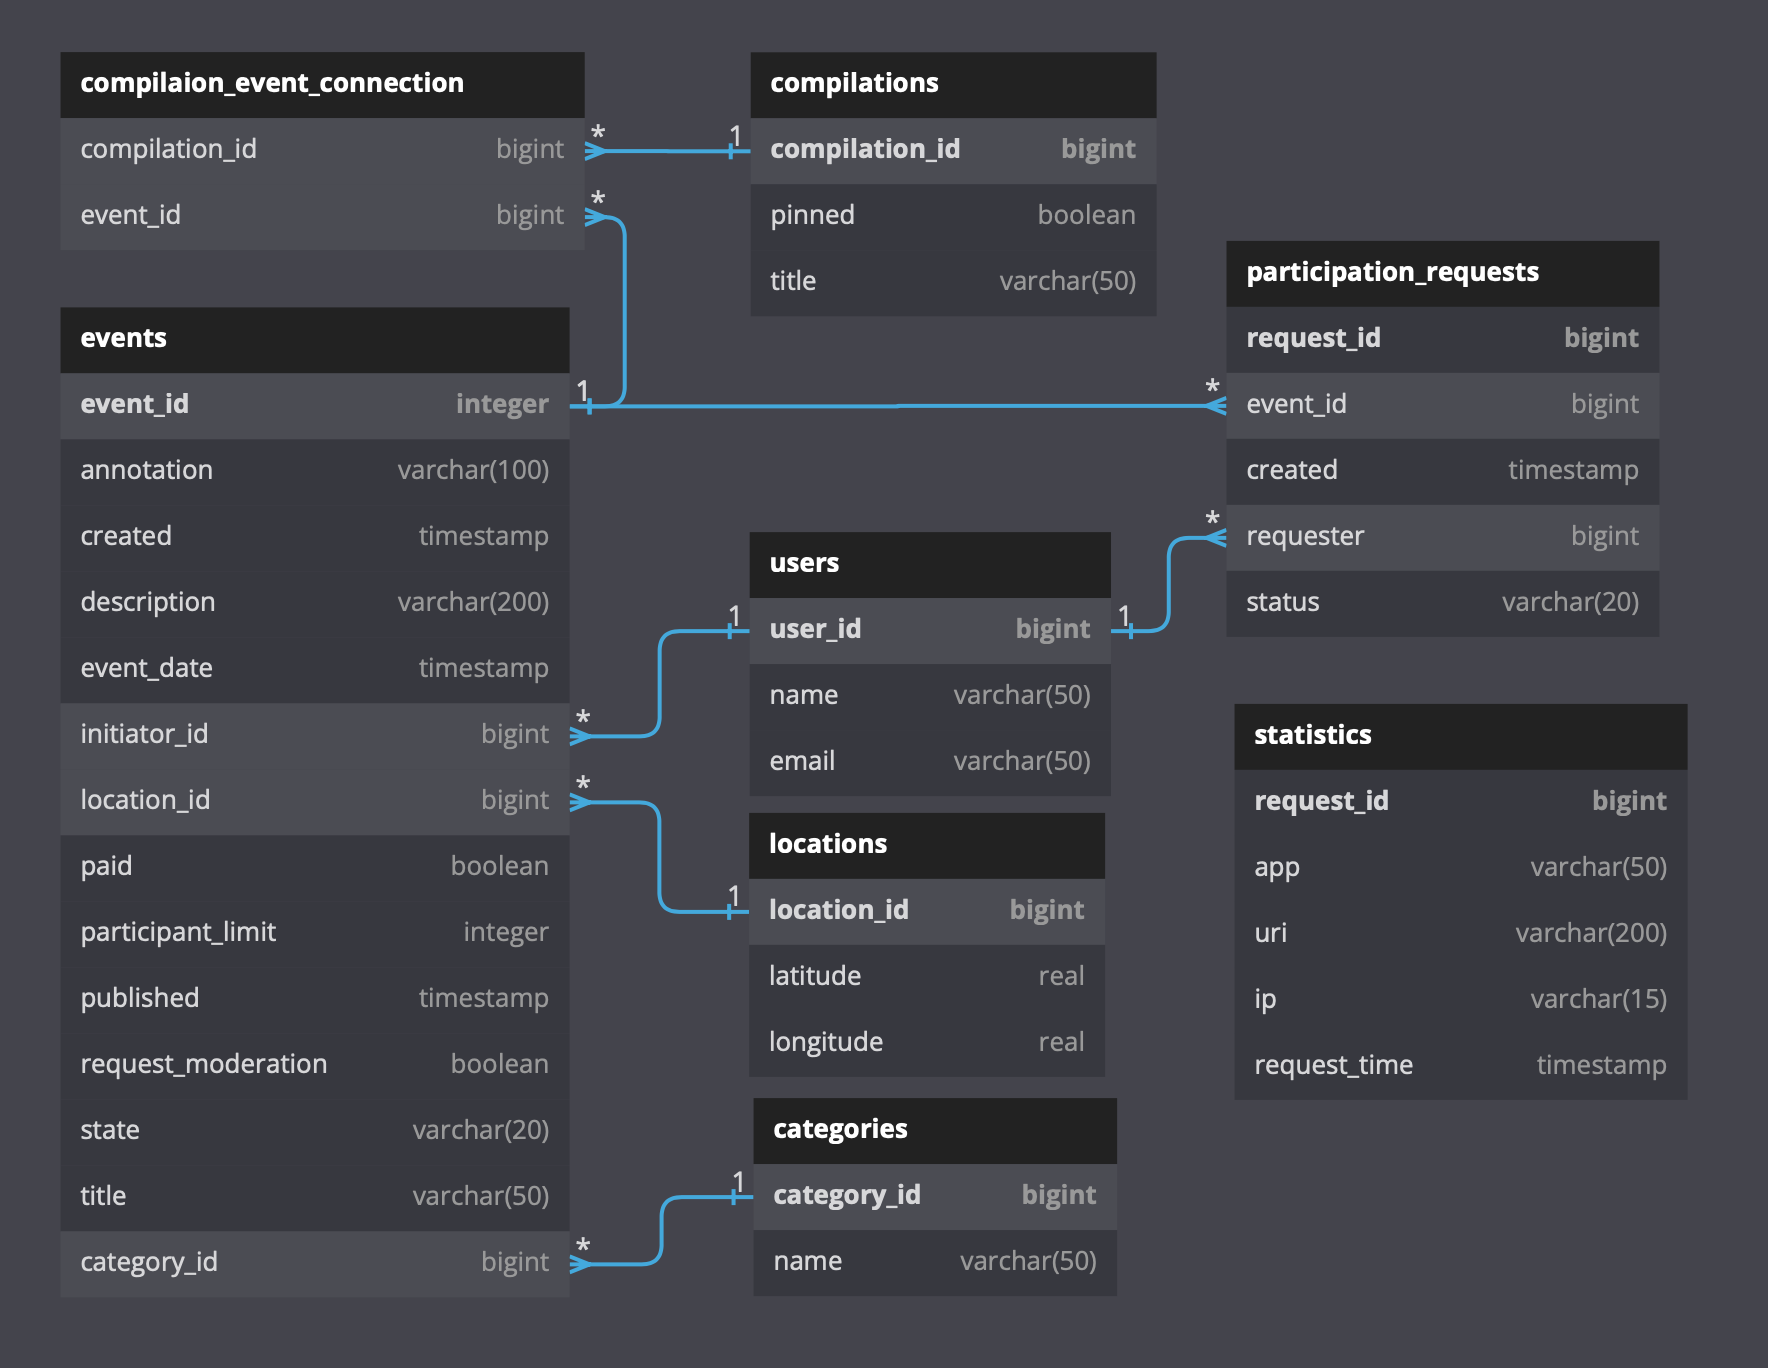
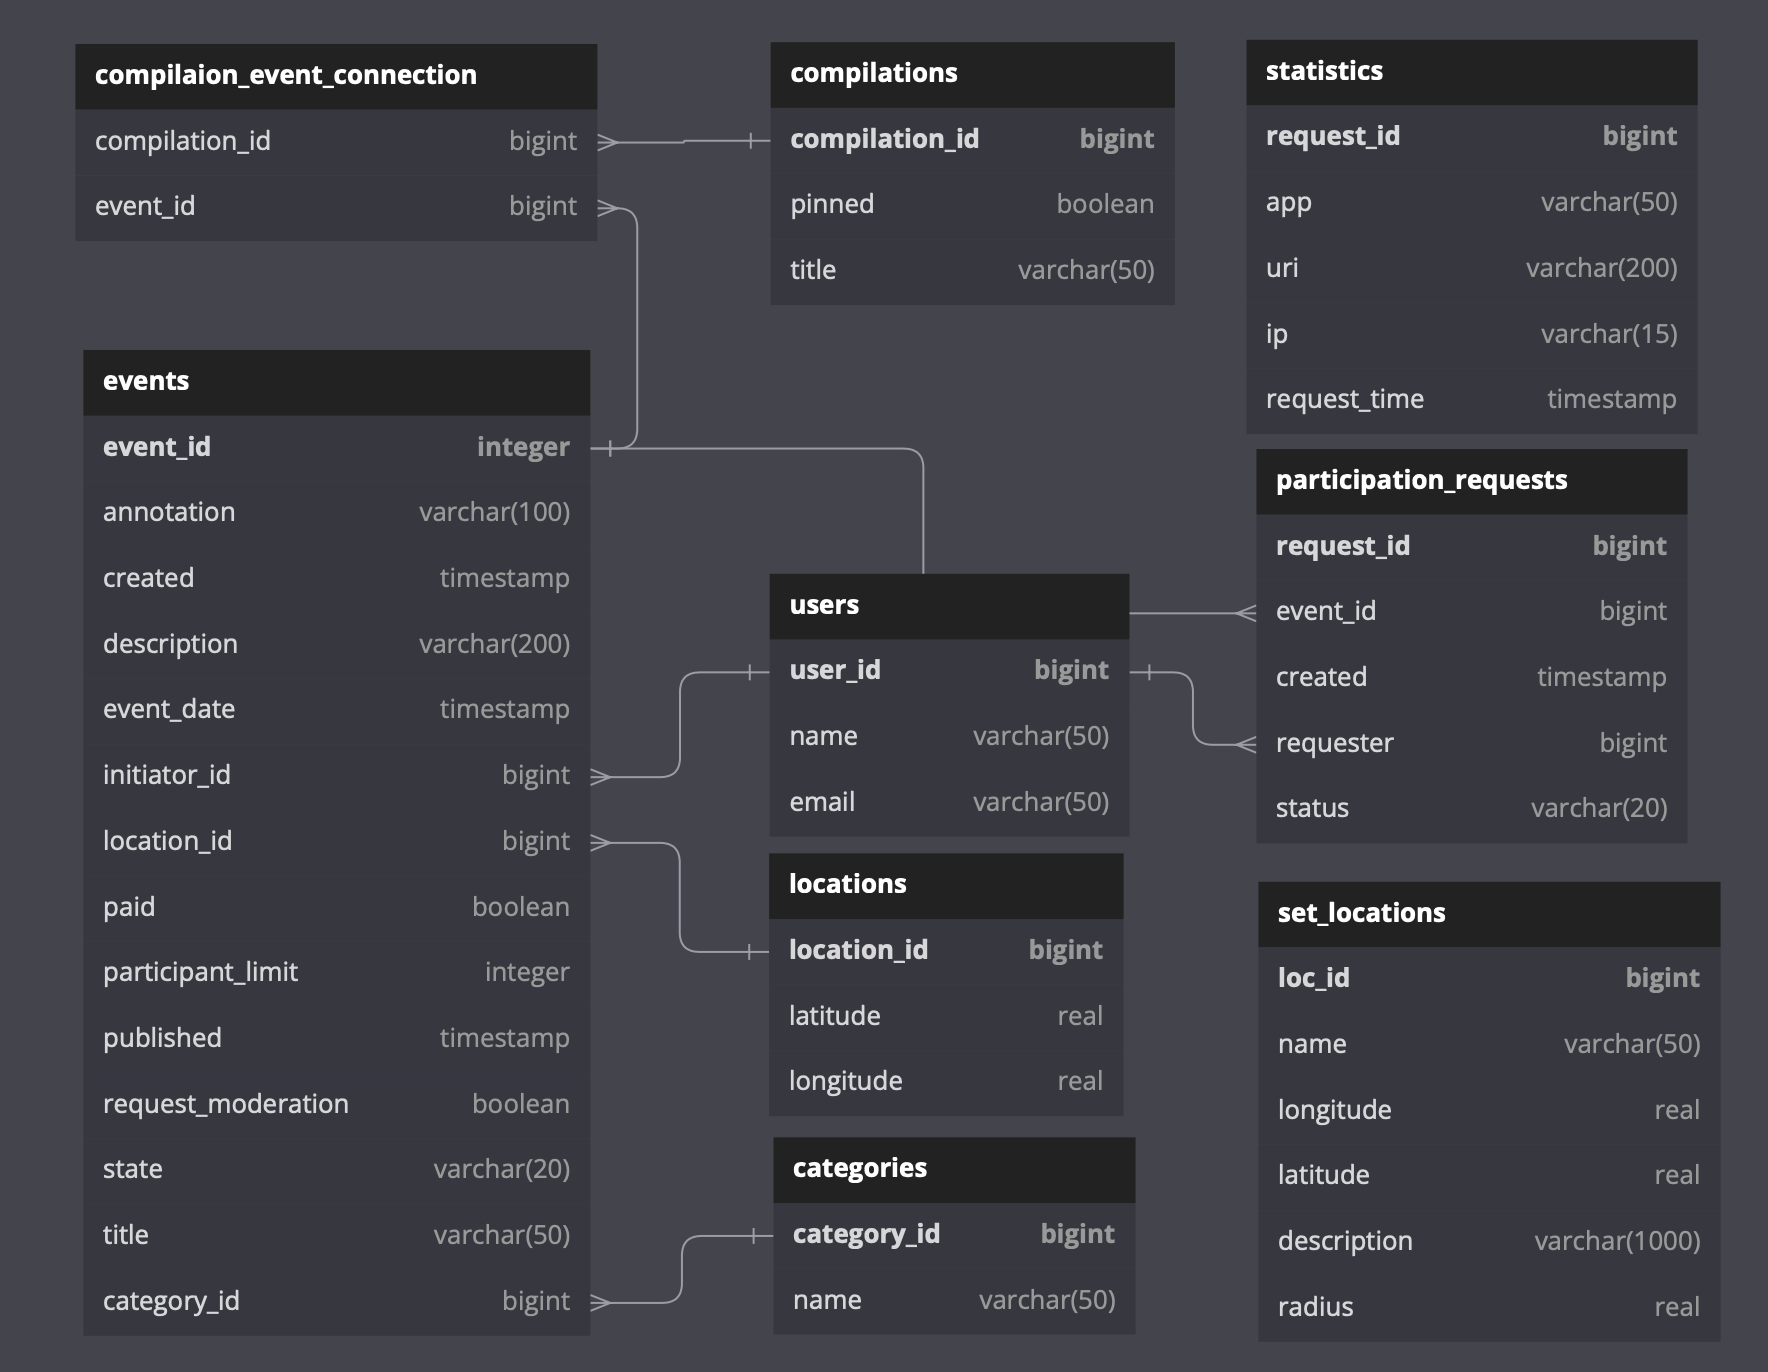
feat: implement SetLocationServiceImpl.getEventsInLocation method

diff --git a/ewm-main/src/main/java/ru/practicum/ewmmain/setlocation/service/SetLocationServiceImpl.java b/ewm-main/src/main/java/ru/practicum/ewmmain/setlocation/service/SetLocationServiceImpl.java
@@ -1,10 +1,14 @@
 package ru.practicum.ewmmain.setlocation.service;
 
-import lombok.RequiredArgsConstructor;
 import lombok.extern.slf4j.Slf4j;
+import org.springframework.data.domain.PageRequest;
 import org.springframework.stereotype.Service;
 import ru.practicum.ewmmain.client.StatisticsClient;
+import ru.practicum.ewmmain.event.controller.SortOption;
+import ru.practicum.ewmmain.event.model.event.Event;
+import ru.practicum.ewmmain.event.model.event.EventDtoMapper;
 import ru.practicum.ewmmain.event.model.event.EventDtoShort;
+import ru.practicum.ewmmain.event.model.event.State;
 import ru.practicum.ewmmain.event.repository.EventRepository;
 import ru.practicum.ewmmain.participationrequest.service.ParticipationReqService;
 import ru.practicum.ewmmain.setlocation.exception.SetLocationNotFoundException;
@@ -13,10 +17,16 @@ import ru.practicum.ewmmain.setlocation.model.SetLocation;
 import ru.practicum.ewmmain.setlocation.model.SetLocationDto;
 import ru.practicum.ewmmain.setlocation.repository.SetLocationRepository;
 
+import javax.validation.ConstraintViolation;
+import javax.validation.ConstraintViolationException;
+import javax.validation.Validation;
+import javax.validation.Validator;
+import java.time.LocalDateTime;
+import java.util.Comparator;
 import java.util.List;
+import java.util.Set;
 import java.util.stream.Collectors;
 
-@RequiredArgsConstructor
 @Slf4j
 @Service
 public class SetLocationServiceImpl implements SetLocationService {
@@ -24,42 +34,142 @@ public class SetLocationServiceImpl implements SetLocationService {
     private final EventRepository eventRepository;
     private final ParticipationReqService reqService;
     private final StatisticsClient client;
+    private final Validator validator;
+
+    public SetLocationServiceImpl(SetLocationRepository repository, EventRepository eventRepository,
+                                  ParticipationReqService reqService, StatisticsClient client) {
+        this.repository = repository;
+        this.eventRepository = eventRepository;
+        this.reqService = reqService;
+        this.client = client;
+        this.validator = Validation.buildDefaultValidatorFactory().getValidator();
+    }
 
     @Override
     public SetLocationDto addLocation(SetLocationDto locationDto) {
         SetLocation location = SetLocDtoMapper.toSetLocation(locationDto);
         location = repository.save(location);
 
+        log.trace("{} Set location id={} added : {}", LocalDateTime.now(), location.getId(), location);
+
         return SetLocDtoMapper.toDto(location);
     }
 
     @Override
     public SetLocationDto getLocationById(Integer locId) {
-        SetLocation location = repository.findById(locId).orElseThrow(()->
+        SetLocation location = repository.findById(locId).orElseThrow(() ->
                 new SetLocationNotFoundException(String.format("Set location id=%d not found", locId)));
+
+        log.trace("{} Set location id={} found : {}", LocalDateTime.now(), locId, location);
 
         return SetLocDtoMapper.toDto(location);
     }
 
     @Override
-    public List<SetLocationDto> getAllLocations() {
-        return repository.findAll().stream().map(SetLocDtoMapper::toDto).collect(Collectors.toList());
+    public List<SetLocationDto> getAllLocations(Integer from, Integer size) {
+        List<SetLocation> locations = repository.findAll(PageRequest.of(from / size, size)).getContent();
+
+        log.trace("{} Found {} set locations", LocalDateTime.now(), locations.size());
+
+        return locations.stream().map(SetLocDtoMapper::toDto).collect(Collectors.toList());
     }
 
     @Override
-    public List<EventDtoShort> getEventsInLocation(Integer locId, Integer eventId) {
-        // TODO: 29.09.2022 implement
-        return null;
+    public List<EventDtoShort> getEventsInLocation(Integer locId, SortOption sort, State state,
+                                                   String text, List<Integer> categories, Boolean paid,
+                                                   LocalDateTime rangeStart, LocalDateTime rangeEnd,
+                                                   Boolean onlyAvailable, Integer from, Integer size) {
+
+        SetLocation location = repository.findById(locId).orElseThrow(
+                ()-> new SetLocationNotFoundException(String.format("Set location id=%d not found", locId)));
+
+        if (text == null) {
+            text = "";
+        }
+
+        if (rangeStart == null) {
+            rangeStart = LocalDateTime.now();
+        }
+
+        if (rangeEnd == null) {
+            rangeEnd = LocalDateTime.now().plusYears(1000);
+        }
+
+        List<Event> events;
+
+        //Только события у которых не исчерпан лимит запросов на участие
+        if (onlyAvailable){
+            events = eventRepository.getAvailEventsInLoc(state, text.toLowerCase(), categories,
+                    paid, rangeStart, rangeEnd, location.getLatitude(), location.getLongitude(),
+                    location.getRadius(), PageRequest.of(from / size, size));
+        } else {
+            events = eventRepository.getEventsInLoc(state, text.toLowerCase(), categories,
+                    paid, rangeStart, rangeEnd, location.getLatitude(), location.getLongitude(),
+                    location.getRadius(), PageRequest.of(from / size, size));
+        }
+
+        List<EventDtoShort> eventsDto = events.stream().map(event -> EventDtoMapper.toDtoShort(event,
+                reqService.getConfRequests(event.getId()), client.getViews(event.getId())))
+                .collect(Collectors.toList());
+
+        //Сортировка событий по убыванию просмотров
+        if (sort.equals(SortOption.VIEWS)) {
+            eventsDto.sort(Comparator.comparing(EventDtoShort::getViews).reversed());
+        }
+
+        log.trace("{} Found {} events. locId={}, sort={}, text={}, categories={}, paid={}," +
+                "rangeStart={}, rangeEnd={}, onlyAvailable={}, from={}, size={}", LocalDateTime.now(),
+                eventsDto.size(), locId, sort.name(), text, categories, paid, rangeStart, rangeEnd,
+                onlyAvailable, from, size);
+
+        return eventsDto;
     }
 
     @Override
     public SetLocationDto updateDto(Integer locId, SetLocationDto locationDto) {
-        // TODO: 29.09.2022 dont forget to validate the entity
-        return null;
+        SetLocation location = repository.findById(locId).orElseThrow(() ->
+                new SetLocationNotFoundException(String.format("Set location id=%d not found", locId)));
+
+        updateLocation(location, locationDto);
+
+        Set<ConstraintViolation<SetLocation>> violations = validator.validate(location);
+
+        if (violations.size() > 0) {
+            throw new ConstraintViolationException(violations);
+        }
+
+        repository.save(location);
+
+        log.trace("{} Set location id={} updated : {}", LocalDateTime.now(), locId, location);
+
+        return SetLocDtoMapper.toDto(location);
+    }
+
+    private void updateLocation(SetLocation location, SetLocationDto locationDto) {
+        if (locationDto.getDescription() != null) {
+            location.setDescription(locationDto.getDescription());
+        }
+
+        if (locationDto.getName() != null) {
+            location.setName(locationDto.getName());
+        }
+
+        if (locationDto.getLongitude() != null) {
+            location.setLongitude(locationDto.getLongitude());
+        }
+
+        if (locationDto.getLatitude() != null) {
+            location.setLatitude(locationDto.getLatitude());
+        }
+
+        if (locationDto.getRadius() != null) {
+            location.setRadius(locationDto.getRadius());
+        }
     }
 
     @Override
     public void deleteLocation(Integer locId) {
         repository.deleteById(locId);
+        log.trace("{} set location id={} deleted", LocalDateTime.now(), locId);
     }
 }

diff --git a/ewm-main/src/main/java/ru/practicum/ewmmain/setlocation/controller/SetLocationController.java b/ewm-main/src/main/java/ru/practicum/ewmmain/setlocation/controller/SetLocationController.java
@@ -1,14 +1,19 @@
 package ru.practicum.ewmmain.setlocation.controller;
 
 import lombok.RequiredArgsConstructor;
+import org.springframework.format.annotation.DateTimeFormat;
 import org.springframework.validation.annotation.Validated;
 import org.springframework.web.bind.annotation.*;
+import ru.practicum.ewmmain.event.controller.SortOption;
 import ru.practicum.ewmmain.event.model.event.EventDtoShort;
+import ru.practicum.ewmmain.event.model.event.State;
 import ru.practicum.ewmmain.setlocation.model.SetLocationDto;
 import ru.practicum.ewmmain.setlocation.service.SetLocationService;
 
 import javax.validation.Valid;
 import javax.validation.constraints.Min;
+import javax.validation.constraints.NotNull;
+import java.time.LocalDateTime;
 import java.util.List;
 
 @RestController
@@ -32,15 +37,44 @@ public class SetLocationController {
 
     //Получить все локации
     @GetMapping("/all")
-    List<SetLocationDto> getAllLocations() {
-        return service.getAllLocations();
+    List<SetLocationDto> getAllLocations(@RequestParam(required = false, defaultValue = "0") @Min(0) Integer from,
+                                         @RequestParam(required = false, defaultValue = "10") @Min(1) Integer size) {
+        return service.getAllLocations(from, size);
     }
 
     //Найти события в заданной локации
-    @GetMapping("/{locId}/event/{eventId}")
+    //Событие:
+    //Если не указана дата rangeStart возвращаются события позже текущей даты и времени;
+    //Если не указана дата rangeEnd возвращаются все события позже rangeStart;
+    //text - текст для поиска в содержимом аннотации и подробном описании события без учета регистра;
+    //sort - Вариант сортировки: по дате события или по количеству просмотров (EVENT_DATE, VIEWS);
+    //state - Статус события PENDING, PUBLISHED, CANCELED;
+    //categories - список идентификаторов категорий в которых будет вестись поиск;
+    //paid - поиск только платных/бесплатных событий;
+    //rangeStart - дата и время не раньше которых должно произойти событие;
+    //rangeEnd - дата и время не позже которых должно произойти событие;
+    //onlyAvailable - только события у которых не исчерпан лимит запросов на участие;
+    //from - количество событий, которые нужно пропустить для формирования текущего набора;
+    //size - количество событий в наборе;
+    @GetMapping("/{locId}/event")
     List<EventDtoShort> getEventsInLocation(@PathVariable @Min(1) Integer locId,
-                                            @PathVariable @Min(1) Integer eventId) {
-        return service.getEventsInLocation(locId, eventId);
+                                            @RequestParam(name = "sort", required = false, defaultValue = "EVENT_DATE")
+                                            @NotNull SortOption sort,
+                                            @RequestParam(required = false) State state,
+                                            @RequestParam(required = false) String text,
+                                            @RequestParam(required = false) List<Integer> categories,
+                                            @RequestParam(required = false) Boolean paid,
+                                            @RequestParam(required = false)
+                                            @DateTimeFormat(pattern = "yyyy-MM-dd HH:mm:ss")
+                                            LocalDateTime rangeStart,
+                                            @RequestParam(required = false)
+                                            @DateTimeFormat(pattern = "yyyy-MM-dd HH:mm:ss")
+                                            LocalDateTime rangeEnd,
+                                            @RequestParam(required = false, defaultValue = "false") Boolean onlyAvailable,
+                                            @RequestParam(required = false, defaultValue = "0") @Min(0) Integer from,
+                                            @RequestParam(required = false, defaultValue = "10") @Min(1) Integer size) {
+        return service.getEventsInLocation(locId, sort, state, text, categories, paid, rangeStart,
+                rangeEnd, onlyAvailable, from, size);
     }
 
     //Обновить локацию по ИД

diff --git a/ewm-main/src/main/java/ru/practicum/ewmmain/repository/event/EventRepository.java b/ewm-main/src/main/java/ru/practicum/ewmmain/repository/event/EventRepository.java
@@ -65,4 +65,43 @@ public interface EventRepository extends JpaRepository<Event, Integer> {
     List<Event> getPublishedEvents(@Param("text") String text, @Param("categories") List<Integer> categories,
                                    @Param("paid") Boolean paid, @Param("rangeStart") LocalDateTime rangeStart,
                                    @Param("rangeEnd") LocalDateTime rangeEnd, Pageable pageable);
+
+
+
+
+    @Query(value = "SELECT e FROM Event e " +
+            "WHERE (:text IS NULL OR lower(e.annotation) LIKE concat('%', :text, '%')) " +
+            "AND (coalesce(:categories, null) IS NULL OR e.category.id IN :categories) " +
+            "AND (:paid IS NULL OR e.paid = :paid) " +
+            "AND e.eventDate BETWEEN :rangeStart AND :rangeEnd " +
+            "AND (:state IS NULL OR e.state = :state) " +
+            "AND function('distance', e.location.latitude, e.location.longitude, :lat, :long) <= :radius " +
+            "AND (e.participantLimit = 0 " +
+            "OR e.participantLimit > coalesce(" +
+            "(SELECT count(p.id) FROM ParticipationRequest p " +
+            "WHERE p.event.id = e.id " +
+            "AND p.status = 'CONFIRMED' " +
+            "GROUP BY p.event.id), 0)) " +
+            "ORDER BY e.eventDate ASC")
+    List<Event> getAvailEventsInLoc(@Param("state") State state, @Param("text") String text,
+                                    @Param("categories") List<Integer> categories, @Param("paid") Boolean paid,
+                                    @Param("rangeStart") LocalDateTime rangeStart,
+                                    @Param("rangeEnd") LocalDateTime rangeEnd, @Param("lat") Float latitude,
+                                    @Param("long") Float longitude, @Param("radius") Float radius,
+                                    Pageable pageable);
+
+    @Query(value = "SELECT e FROM Event e " +
+            "WHERE (:text IS NULL OR lower(e.annotation) LIKE concat('%', :text, '%')) " +
+            "AND (coalesce(:categories, null) IS NULL OR e.category.id IN :categories) " +
+            "AND (:paid IS NULL OR e.paid = :paid) " +
+            "AND e.eventDate BETWEEN :rangeStart AND :rangeEnd " +
+            "AND (:state IS NULL OR e.state = :state) " +
+            "AND function('distance', e.location.latitude, e.location.longitude, :lat, :long) <= :radius " +
+            "ORDER BY e.eventDate ASC")
+    List<Event> getEventsInLoc(@Param("state") State state, @Param("text") String text,
+                               @Param("categories") List<Integer> categories, @Param("paid") Boolean paid,
+                               @Param("rangeStart") LocalDateTime rangeStart,
+                               @Param("rangeEnd") LocalDateTime rangeEnd, @Param("lat") Float latitude,
+                               @Param("long") Float longitude, @Param("radius") Float radius,
+                               Pageable pageable);
 }

diff --git a/ewm-main/src/main/java/ru/practicum/ewmmain/setlocation/service/SetLocationService.java b/ewm-main/src/main/java/ru/practicum/ewmmain/setlocation/service/SetLocationService.java
@@ -1,8 +1,11 @@
 package ru.practicum.ewmmain.setlocation.service;
 
+import ru.practicum.ewmmain.event.controller.SortOption;
 import ru.practicum.ewmmain.event.model.event.EventDtoShort;
+import ru.practicum.ewmmain.event.model.event.State;
 import ru.practicum.ewmmain.setlocation.model.SetLocationDto;
 
+import java.time.LocalDateTime;
 import java.util.List;
 
 public interface SetLocationService {
@@ -10,9 +13,12 @@ public interface SetLocationService {
 
     SetLocationDto getLocationById(Integer locId);
 
-    List<SetLocationDto> getAllLocations();
+    List<SetLocationDto> getAllLocations(Integer from, Integer size);
 
-    List<EventDtoShort> getEventsInLocation(Integer locId, Integer eventId);
+    List<EventDtoShort> getEventsInLocation(Integer locId, SortOption sort, State state,
+                                            String text, List<Integer> categories, Boolean paid,
+                                            LocalDateTime rangeStart, LocalDateTime rangeEnd,
+                                            Boolean onlyAvailable, Integer from, Integer size);
 
     SetLocationDto updateDto(Integer locId, SetLocationDto locationDto);
 

diff --git a/ewm-main/src/main/java/ru/practicum/ewmmain/setlocation/model/SetLocation.java b/ewm-main/src/main/java/ru/practicum/ewmmain/setlocation/model/SetLocation.java
@@ -15,6 +15,7 @@ import java.util.Objects;
 public class SetLocation {
     @Id
     @GeneratedValue(strategy = GenerationType.IDENTITY)
+    @Column(name = "loc_id")
     private Integer id;
 
     @Column(nullable = false, unique = true)
